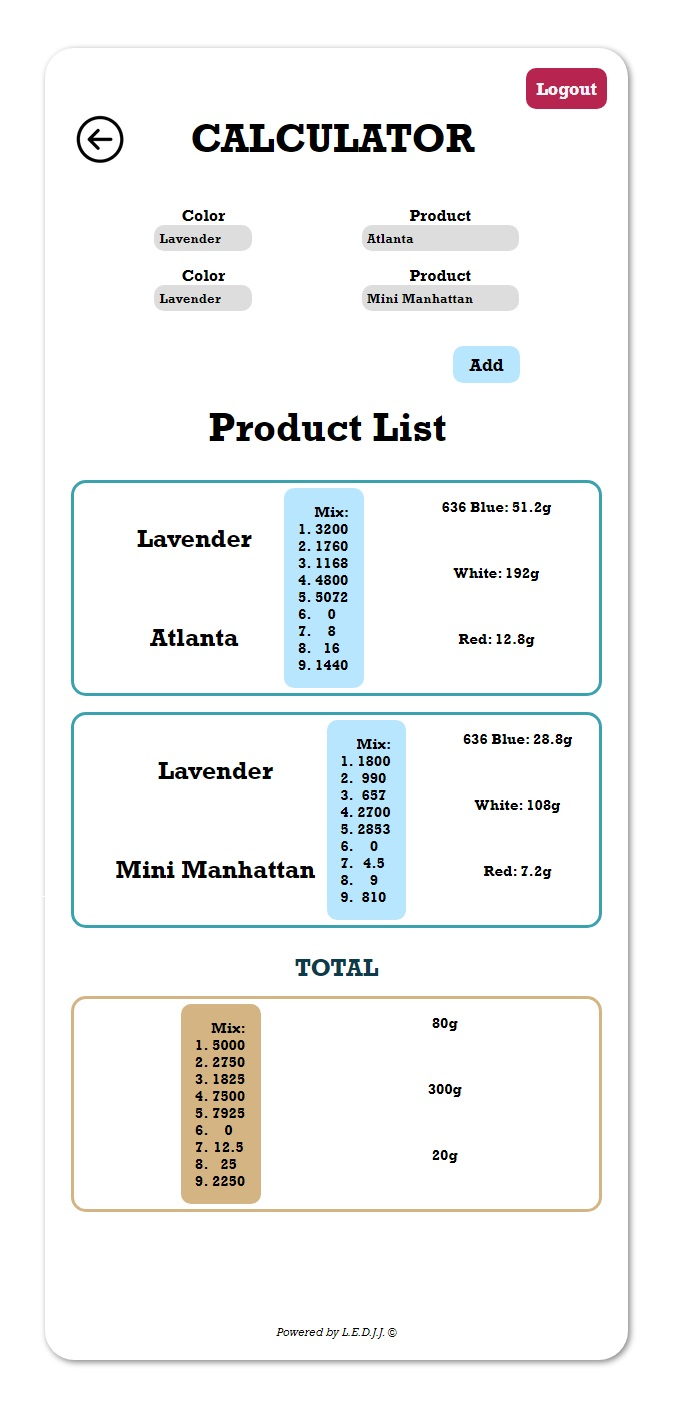
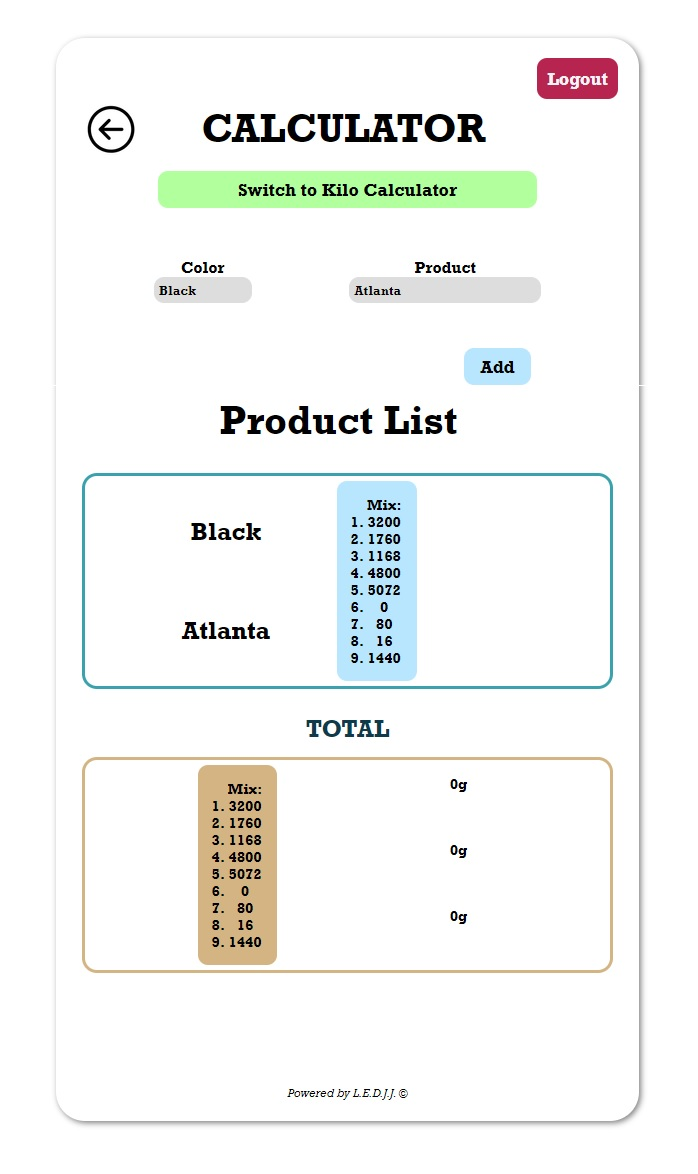
changed README pics

diff --git a/README.md b/README.md
@@ -2,7 +2,7 @@
 <br />
 <p align="center">
   <a href="https://gitlab.com/ledjj/concretti-application">
-    <img src="public/concretti.png" alt="Logo" width="80" height="80">
+    <img src="public/votedLogo.png" alt="Logo" width="80" height="80">
   </a>
 
   <h3 align="center">Concretti Aplication Suite</h3>
@@ -31,16 +31,15 @@ Production/Inventory Tracker overview: This application is to be a production an
 <img align="center" src="src/images/app/2.jpg" />
 <p>Calculator</p>
 <img align="center" src="src/images/app/C1.jpg" />
+<img align="center" src="src/images/app/C2.jpg">
 <p>Inventory</p> 
 <img align="center" src="src/images/app/P1.jpg" />
 <p>New Product</p> 
 <img align="center" src="src/images/app/P2.jpg" />
-<p>In Production</p> 
+<p>In Production By Color</p> 
 <img align="center" src="src/images/app/P3.jpg" />
-<p>Produced</p> 
+<p>Product Break Down</p> 
 <img align="center" src="src/images/app/P4.jpg" />
-<p>In Stock</p> 
-<img align="center" src="src/images/app/P5.jpg" />
 
   <p>
     <br />
